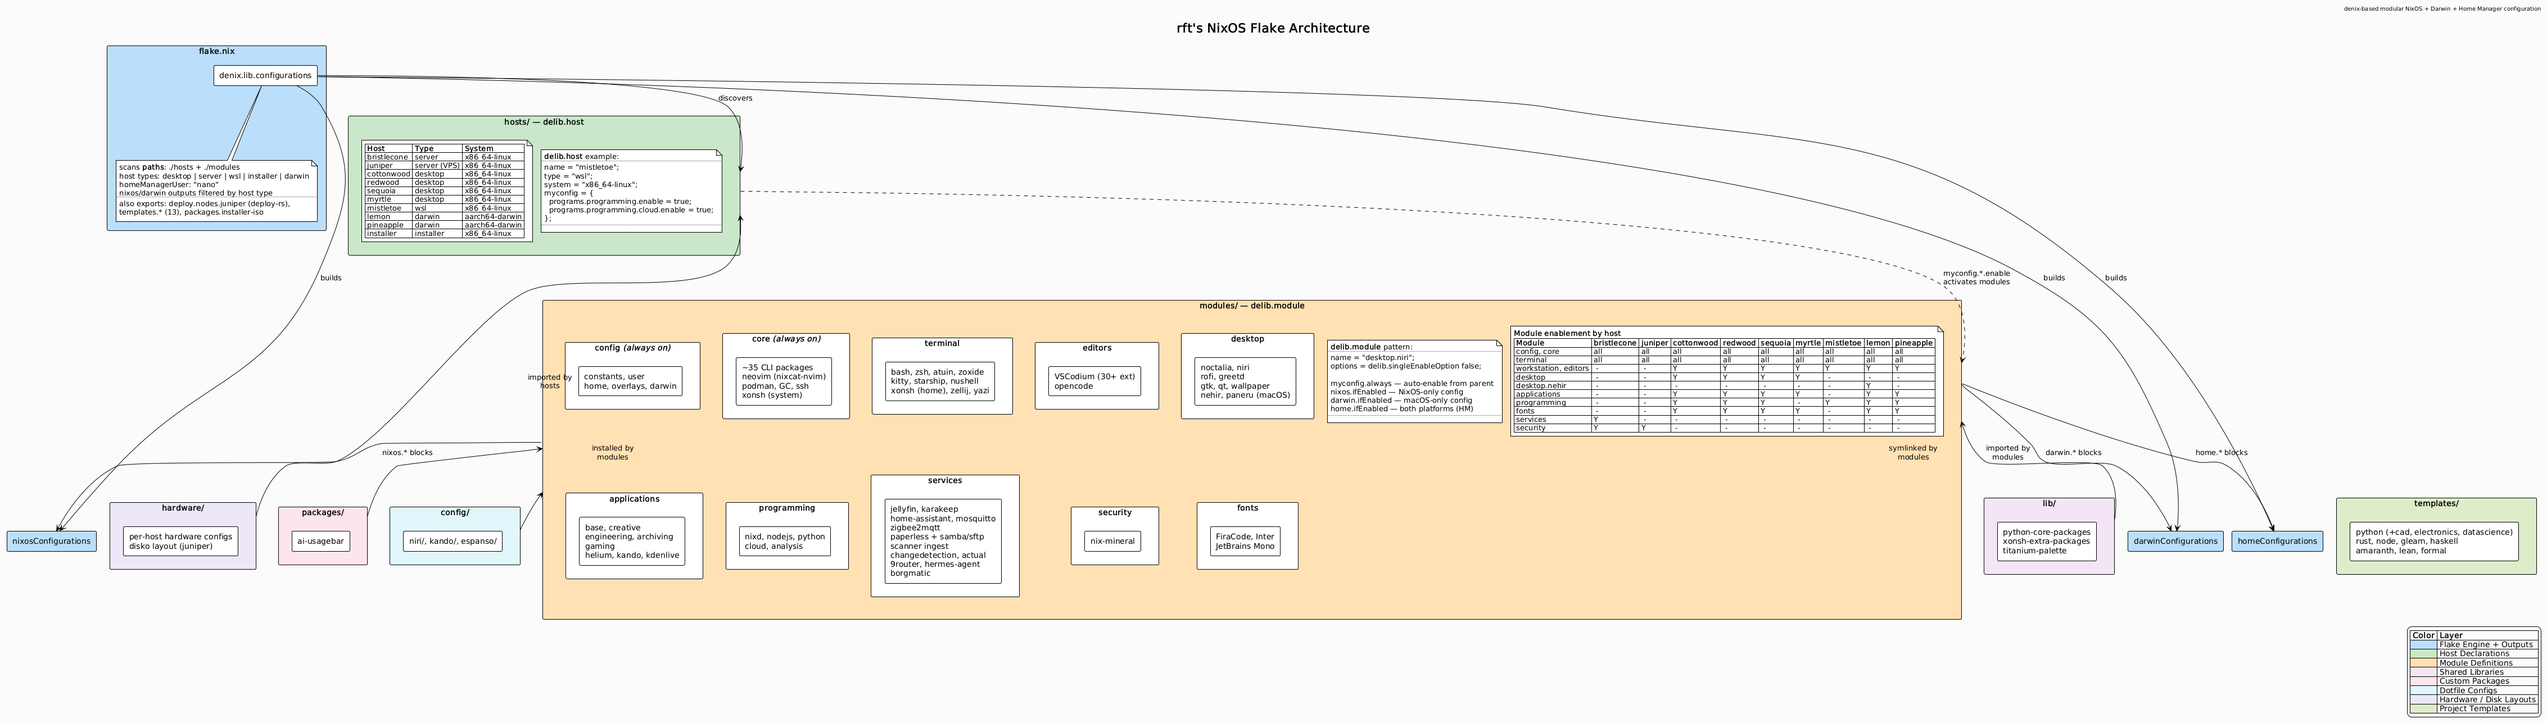
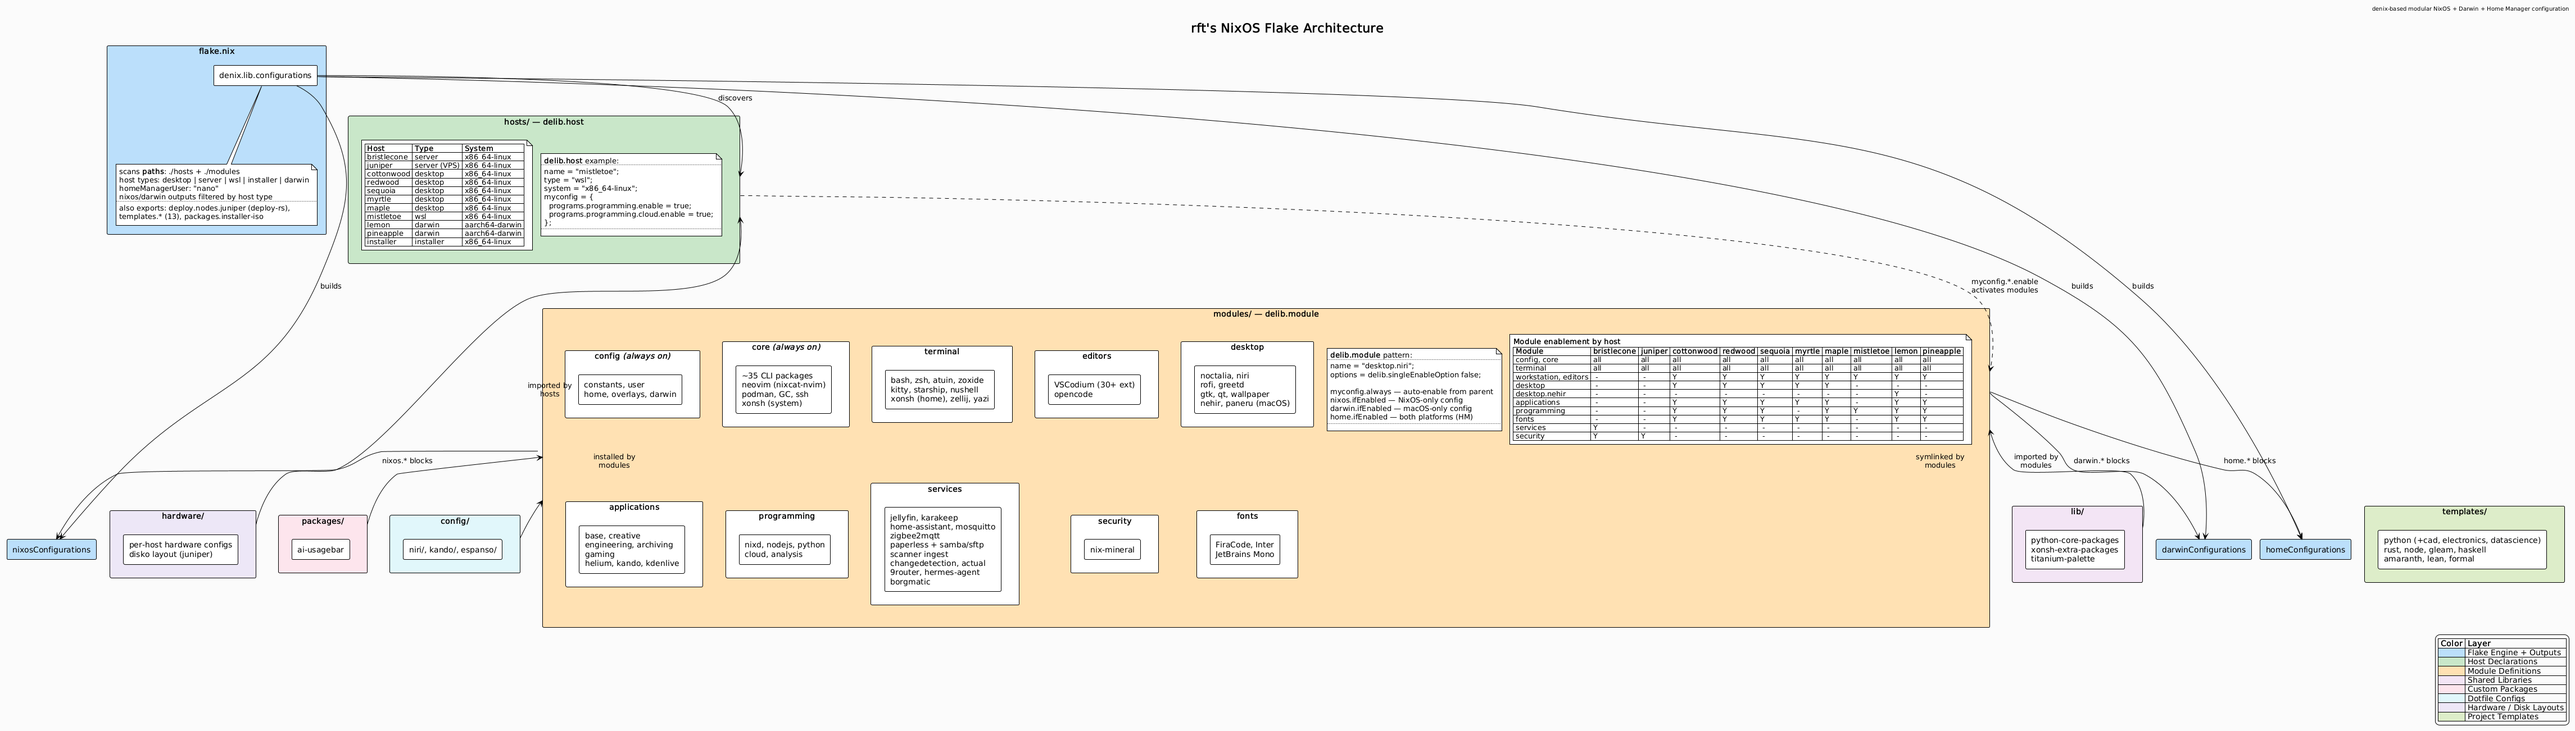
added new host

diff --git a/docs/SETUP.md b/docs/SETUP.md
@@ -10,6 +10,7 @@ hosts/                  Per-host configurations (delib.host)
   redwood/              Desktop, full creative+engineering
   sequoia/              Desktop, VMware guest
   myrtle/               Desktop, archiving-focused, VMware guest
+  maple/                Desktop, creative + engineering (bare metal)
   mistletoe/            WSL, programming only
   lemon/                Darwin (macOS), Apple Silicon
   pineapple/            Darwin (macOS), Apple Silicon
@@ -35,7 +36,7 @@ docs/                   This documentation
 
 ## Hosts
 
-The flake defines 10 hosts via `denix.lib.configurations`. Each host declares a
+The flake defines 11 hosts via `denix.lib.configurations`. Each host declares a
 name, type, and system in `delib.host`. The type determines which base
 extensions apply (host types: `desktop`, `server`, `wsl`, `installer`, `darwin`).
 
@@ -47,6 +48,7 @@ extensions apply (host types: `desktop`, `server`, `wsl`, `installer`, `darwin`)
 | **redwood** | desktop | America/Los_Angeles | Full modules: creative + engineering explicitly enabled |
 | **sequoia** | desktop | America/Phoenix | VMware guest, GRUB on `/dev/sda` |
 | **myrtle** | desktop | America/Phoenix | VMware guest, archiving enabled, creative/engineering/programming disabled |
+| **maple** | desktop | America/Phoenix | Same modules as sequoia (creative + engineering + programming) on bare metal, GRUB+EFI |
 | **mistletoe** | wsl | -- | WSL host, programming + analysis + cloud, nix-ld enabled |
 | **lemon** | darwin | -- | Apple Silicon Mac (aarch64-darwin), Touch ID sudo, Nehir tiling WM, Karabiner Caps Lock → Esc/Ctrl. Shared Homebrew casks + topnotch, handy, cotabby |
 | **pineapple** | darwin | -- | Apple Silicon Mac (aarch64-darwin), Touch ID sudo, Nix GC disabled. Shared Homebrew casks + google-chrome |
@@ -62,23 +64,23 @@ and Hover for Safari.
 
 ### Module enablement by host
 
-| Module | bristlecone | juniper | cottonwood | redwood | sequoia | myrtle | mistletoe | lemon | pineapple | installer |
-|--------|:-----------:|:-------:|:----------:|:-------:|:-------:|:------:|:---------:|:-----:|:---------:|:---------:|
-| desktop | -- | -- | yes | yes | yes | yes | -- | -- | -- | -- |
-| applications | -- | -- | yes | yes | yes | yes | -- | yes | yes | -- |
-| applications.creative | -- | -- | auto | yes | yes | no | -- | auto | auto | -- |
-| applications.engineering | -- | -- | auto | yes | yes | no | -- | auto | auto | -- |
-| applications.archiving | -- | -- | -- | -- | -- | yes | -- | -- | -- | -- |
-| desktop.nehir | -- | -- | -- | -- | -- | -- | -- | yes | -- | -- |
-| programs.programming | -- | -- | yes | yes | yes | no | yes | yes | yes | -- |
-| programs.programming.analysis | -- | -- | auto | auto | auto | -- | yes | auto | auto | -- |
-| programs.programming.cloud | -- | -- | -- | -- | -- | -- | yes | yes | yes | -- |
-| services | yes | -- | -- | -- | -- | -- | -- | -- | -- | -- |
-| security | yes | yes | -- | -- | -- | -- | -- | -- | -- | -- |
-| terminal | yes | yes | yes | yes | yes | yes | yes | yes | yes | yes |
-| core.workstation | -- | -- | auto | auto | auto | auto | auto | auto | auto | -- |
-| editors | -- | -- | auto | auto | auto | auto | auto | auto | auto | -- |
-| fonts | -- | -- | auto | auto | auto | auto | -- | yes | yes | yes |
+| Module | bristlecone | juniper | cottonwood | redwood | sequoia | myrtle | maple | mistletoe | lemon | pineapple | installer |
+|--------|:-----------:|:-------:|:----------:|:-------:|:-------:|:------:|:-----:|:---------:|:-----:|:---------:|:---------:|
+| desktop | -- | -- | yes | yes | yes | yes | yes | -- | -- | -- | -- |
+| applications | -- | -- | yes | yes | yes | yes | yes | -- | yes | yes | -- |
+| applications.creative | -- | -- | auto | yes | yes | no | yes | -- | auto | auto | -- |
+| applications.engineering | -- | -- | auto | yes | yes | no | yes | -- | auto | auto | -- |
+| applications.archiving | -- | -- | -- | -- | -- | yes | -- | -- | -- | -- | -- |
+| desktop.nehir | -- | -- | -- | -- | -- | -- | -- | -- | yes | -- | -- |
+| programs.programming | -- | -- | yes | yes | yes | no | yes | yes | yes | yes | -- |
+| programs.programming.analysis | -- | -- | auto | auto | auto | -- | auto | yes | auto | auto | -- |
+| programs.programming.cloud | -- | -- | -- | -- | -- | -- | -- | yes | yes | yes | -- |
+| services | yes | -- | -- | -- | -- | -- | -- | -- | -- | -- | -- |
+| security | yes | yes | -- | -- | -- | -- | -- | -- | -- | -- | -- |
+| terminal | yes | yes | yes | yes | yes | yes | yes | yes | yes | yes | yes |
+| core.workstation | -- | -- | auto | auto | auto | auto | auto | auto | auto | auto | -- |
+| editors | -- | -- | auto | auto | auto | auto | auto | auto | auto | auto | -- |
+| fonts | -- | -- | auto | auto | auto | auto | auto | -- | yes | yes | yes |
 
 `yes` = explicitly enabled, `auto` = auto-enabled by parent, `no` = explicitly disabled, `--` = not enabled.
 
@@ -351,9 +353,9 @@ terminal tools (starship, kitty, etc.) pre-configured.
 nix build .#installer-iso
 ```
 
-The ISO is written to `result/iso/`. To reduce build time during development the
-default squashfs compression is zstd level 6. For a smaller release ISO, bump
-the level to 19 in `hosts/installer/default.nix`.
+The ISO is written to `result/iso/`. Squashfs compression is zstd level 19 for
+the smallest image, which makes the final compression step slow. For faster
+test builds, drop the level to 6 in `hosts/installer/default.nix`.
 
 ### Writing to USB
 
@@ -366,7 +368,25 @@ Replace `/dev/sdX` with your USB device (use `lsblk` to identify it).
 ### Installing a host
 
 Boot the USB. KDE Plasma starts with auto-login as `nano`. The flake is
-embedded at `/etc/nixos-config`.
+embedded read-only at `/etc/nixos-config` — a snapshot from when the ISO was
+built. It can reinstall an existing host as-is; a new host, or a host whose
+hardware config must be regenerated, needs a writable checkout (see
+[How to Add a New Host](#how-to-add-a-new-host)).
+
+**Quick path:** once the host exists in the flake (pushed, or present when the
+ISO was built), partition and mount `/mnt`, then run:
+
+```bash
+install-host HOSTNAME
+```
+
+It clones the repo (falling back to the ISO's snapshot), writes
+`hardware/HOSTNAME.nix` with `nixos-generate-config --root /mnt`, evaluates,
+runs `nixos-install` (root stays locked), asks for the `nano` password and
+copies the checkout to `~/nix-config` on the new system — commit
+`hardware/HOSTNAME.nix` from there after reboot.
+
+**Manual path:**
 
 1. Partition and mount disks (GParted is available, or use `parted`/`fdisk`).
 2. Mount the target root at `/mnt` (and EFI partition at `/mnt/boot` if applicable).
@@ -376,13 +396,12 @@ embedded at `/etc/nixos-config`.
 sudo nixos-install --flake /etc/nixos-config#HOSTNAME
 ```
 
-For example, to install the bristlecone host:
+4. `nixos-install` only prompts for the **root** password. The repo sets no
+   password for `nano`, so set one before rebooting:
 
 ```bash
-sudo nixos-install --flake /etc/nixos-config#bristlecone
+sudo nixos-enter --root /mnt -c 'passwd nano'
 ```
-
-4. After installation completes, set the user password when prompted and reboot.
 
 ### Testing in a VM
 
@@ -518,28 +537,56 @@ home-manager switch --flake '.#nano@HOSTNAME' 2>&1 | grep "Existing file"
 
 ## How to Add a New Host
 
-1. Create `hosts/HOSTNAME/default.nix`:
+This flow uses the [installer ISO](#installer-iso). For a remote VPS use
+[VPS.md](VPS.md) instead; for a Mac see [Adding a new Darwin host](#adding-a-new-darwin-host).
+
+1. Boot the installer, connect to the network, partition, and mount the target
+   root at `/mnt` (EFI partition at `/mnt/boot`).
+
+2. Get a writable checkout. The live system has no SSH keys, so clone over HTTPS
+   (or, for a private repo, `cp -r --no-preserve=mode /etc/nixos-config ~/nix-config`
+   — the snapshot from the ISO build, without git history):
+
+```bash
+git clone https://github.com/rft/nix-config.git ~/nix-config && cd ~/nix-config
+```
+
+3. Generate the hardware config into `hardware/` — **not** `hosts/`. Denix
+   auto-loads every `.nix` file under `hosts/` and `modules/`, so a raw hardware
+   file there breaks eval for every host. `--root /mnt` picks up the target's
+   filesystem UUIDs:
+
+```bash
+sudo nixos-generate-config --root /mnt --show-hardware-config > hardware/HOSTNAME.nix
+```
+
+4. Create `hosts/HOSTNAME/default.nix` (`hosts/maple` is a minimal desktop example):
 
 ```nix
 { delib, ... }:
 delib.host {
   name = "HOSTNAME";
-  type = "desktop";  # or "server" or "wsl"
+  type = "desktop";  # desktop | server | wsl
   system = "x86_64-linux";
 
   home.home.stateVersion = "24.05";
 
   nixos = {
-    system.stateVersion = "25.11";
-    imports = [ ./hardware-configuration.nix ];
+    # The release being installed — freeze it, never bump on upgrades.
+    system.stateVersion = "26.05";
+    imports = [ ../../hardware/HOSTNAME.nix ];
 
-    # Boot loader, networking, timezone, locale, etc.
-    networking.hostName = "HOSTNAME";
-    networking.networkmanager.enable = true;
+    boot.loader = {
+      efi.canTouchEfiVariables = true;
+      grub = {
+        efiSupport = true;
+        device = "nodev";
+      };
+    };
   };
 
   myconfig = {
-    # Enable the modules you want
+    # constants.timezone = "America/Los_Angeles";  # default America/Phoenix
     applications.enable = true;
     desktop.enable = true;
     programs.programming.enable = true;
@@ -547,21 +594,31 @@ delib.host {
 }
 ```
 
-2. Copy `hardware-configuration.nix` into the same directory. Generate it with:
+   `networking.hostName` defaults to `name` — only set it when the hostname
+   differs. No `flake.nix` change is needed; hosts are picked up by `type`.
+
+5. Stage the new files (flakes ignore untracked files) and evaluate:
 
 ```bash
-nixos-generate-config --show-hardware-config > hosts/HOSTNAME/hardware-configuration.nix
+git add -A
+nix eval .#nixosConfigurations.HOSTNAME.config.system.build.toplevel.drvPath
 ```
 
-3. Set `name`, `type`, `system`, and `stateVersion` appropriately.
-
-4. Configure the `myconfig` block to enable/disable modules for this host.
-
-5. Rebuild:
+6. Install and set the user password:
 
 ```bash
-sudo nixos-rebuild switch --flake .#HOSTNAME
+sudo nixos-install --flake .#HOSTNAME
+sudo nixos-enter --root /mnt -c 'passwd nano'
 ```
+
+7. After first boot, copy the checkout onto the new system (the live system's
+   home is lost on reboot), commit and push. Add the host to the host tables in
+   `AGENTS.md`, `readme.md`, this file and `docs/architecture.puml`. CI evals it
+   automatically. Later updates: `sudo nixos-rebuild switch --flake .#HOSTNAME`.
+
+To add the host to the repo *before* the hardware exists (as with maple),
+commit a placeholder `hardware/HOSTNAME.nix` with `by-label` filesystems so it
+evaluates, then overwrite it in step 3.
 
 ## SSH Keys
 

diff --git a/AGENTS.md b/AGENTS.md
@@ -5,7 +5,7 @@ Guidelines for AI agents working in this nix-config repository.
 ## Repository structure
 
 - **`flake.nix`** — Flake definition with 16 inputs (nixpkgs 26.05, home-manager, denix, nix-darwin, nixos-wsl, disko, deploy-rs, etc.)
-- **`hosts/`** — 10 host configs using `delib.host` (NixOS desktops: cottonwood, redwood, sequoia, myrtle; NixOS servers: bristlecone, juniper (VPS); WSL: mistletoe; Darwin: lemon, pineapple; installer)
+- **`hosts/`** — 11 host configs using `delib.host` (NixOS desktops: cottonwood, redwood, sequoia, myrtle, maple; NixOS servers: bristlecone, juniper (VPS); WSL: mistletoe; Darwin: lemon, pineapple; installer)
 - **`modules/`** — Shared modules using `delib.module` with `singleEnableOption` pattern, organized by category (config, core, desktop, applications, applications-home, programming, terminal, editors, fonts, services, security)
 - **`config/`** — Static app config files (niri, kando, espanso)
 - **`lib/`** — Shared Nix utilities (python-core-packages.nix, xonsh-extra-packages.nix, titanium-palette.nix, hardened-service-config.nix)
@@ -30,6 +30,7 @@ Guidelines for AI agents working in this nix-config repository.
 | redwood | x86_64-linux | desktop | `nixosConfigurations.redwood` |
 | sequoia | x86_64-linux | desktop | `nixosConfigurations.sequoia` |
 | myrtle | x86_64-linux | desktop | `nixosConfigurations.myrtle` |
+| maple | x86_64-linux | desktop | `nixosConfigurations.maple` (`hardware/maple.nix` is a placeholder until installed) |
 | mistletoe | x86_64-linux | wsl | `nixosConfigurations.mistletoe` |
 | lemon | aarch64-darwin | darwin | `darwinConfigurations.lemon` |
 | pineapple | aarch64-darwin | darwin | `darwinConfigurations.pineapple` |

diff --git a/readme.md b/readme.md
@@ -91,6 +91,7 @@ shown here in zellij inside Windows Terminal.
 | **redwood** | desktop | Full creative + engineering modules |
 | **sequoia** | desktop | VMware guest |
 | **myrtle** | desktop | VMware guest, archiving-focused |
+| **maple** | desktop | Creative + engineering, bare metal |
 | **mistletoe** | wsl | Programming + analysis + cloud |
 | **lemon** | darwin | Apple Silicon Mac with Homebrew casks and the Nehir tiling WM |
 | **pineapple** | darwin | Apple Silicon Mac with Homebrew casks |
